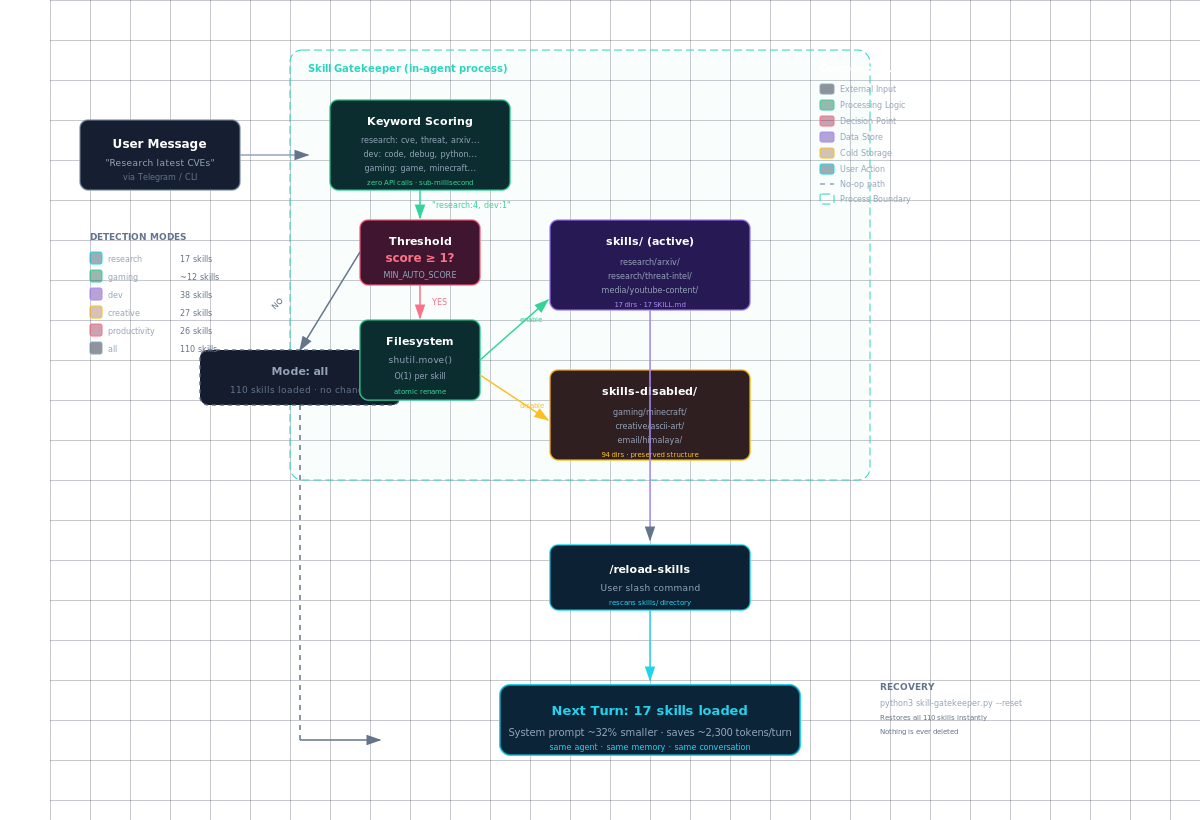
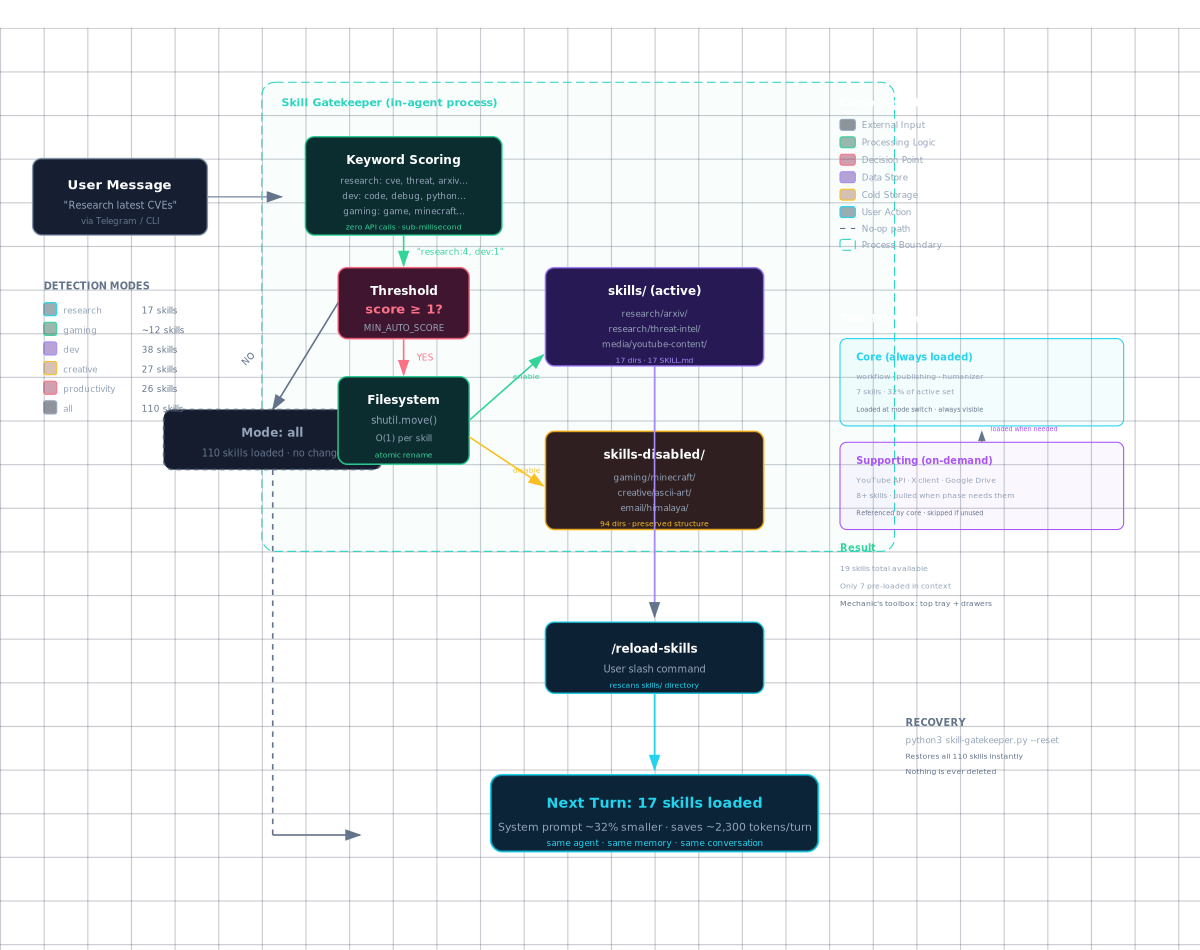
docs: update architecture diagram with two-tier loading section

Changed region(s): [[0.0, 0.0, 1.0, 1.0]]

diff --git a/architecture.html b/architecture.html
@@ -244,10 +244,39 @@
         <!-- ═══════════════════════════════════════════════════════
              FAILURE RECOVERY (bottom-right note)
              ═══════════════════════════════════════════════════════ -->
-        <text x="830" y="690" fill="#64748b" font-size="9" font-weight="600">RECOVERY</text>
-        <text x="830" y="706" fill="#94a3b8" font-size="8">python3 skill-gatekeeper.py --reset</text>
-        <text x="830" y="720" fill="#64748b" font-size="7">Restores all 110 skills instantly</text>
-        <text x="830" y="734" fill="#64748b" font-size="7">Nothing is ever deleted</text>
+        <text x="830" y="640" fill="#64748b" font-size="9" font-weight="600">RECOVERY</text>
+        <text x="830" y="656" fill="#94a3b8" font-size="8">python3 skill-gatekeeper.py --reset</text>
+        <text x="830" y="670" fill="#64748b" font-size="7">Restores all 110 skills instantly</text>
+        <text x="830" y="684" fill="#64748b" font-size="7">Nothing is ever deleted</text>
+
+        <!-- ═══════════════════════════════════════════════════════
+             TWO-TIER ARCHITECTURE (right side, below legend)
+             ═══════════════════════════════════════════════════════ -->
+        <text x="770" y="270" fill="white" font-size="10" font-weight="600">Two-Tier Loading</text>
+
+        <!-- Core tier -->
+        <rect x="770" y="285" width="260" height="80" rx="6" fill="rgba(34, 211, 238, 0.05)" stroke="#22d3ee" stroke-width="1"/>
+        <text x="785" y="305" fill="#22d3ee" font-size="9" font-weight="600">Core (always loaded)</text>
+        <text x="785" y="322" fill="#94a3b8" font-size="7">workflow · publishing · humanizer</text>
+        <text x="785" y="336" fill="#94a3b8" font-size="7">7 skills · 32% of active set</text>
+        <text x="785" y="352" fill="#64748b" font-size="6">Loaded at mode switch · always visible</text>
+
+        <!-- Supporting tier -->
+        <rect x="770" y="380" width="260" height="80" rx="6" fill="rgba(168, 85, 247, 0.05)" stroke="#a855f7" stroke-width="1"/>
+        <text x="785" y="400" fill="#a855f7" font-size="9" font-weight="600">Supporting (on-demand)</text>
+        <text x="785" y="417" fill="#94a3b8" font-size="7">YouTube API · X client · Google Drive</text>
+        <text x="785" y="431" fill="#94a3b8" font-size="7">8+ skills · pulled when phase needs them</text>
+        <text x="785" y="447" fill="#64748b" font-size="6">Referenced by core · skipped if unused</text>
+
+        <!-- Arrow: Supporting → demand -->
+        <line x1="900" y1="380" x2="900" y2="370" stroke="#a855f7" stroke-width="1" stroke-dasharray="3,3" marker-end="url(#arrow)"/>
+        <text x="908" y="370" fill="#a855f7" font-size="6">loaded when needed</text>
+
+        <!-- Arrow: Core → not loaded path -->
+        <text x="770" y="480" fill="#34d399" font-size="9" font-weight="600">Result</text>
+        <text x="770" y="498" fill="#94a3b8" font-size="7">19 skills total available</text>
+        <text x="770" y="514" fill="#94a3b8" font-size="7">Only 7 pre-loaded in context</text>
+        <text x="770" y="530" fill="#64748b" font-size="7">Mechanic's toolbox: top tray + drawers</text>
       </svg>
     </div>
 
